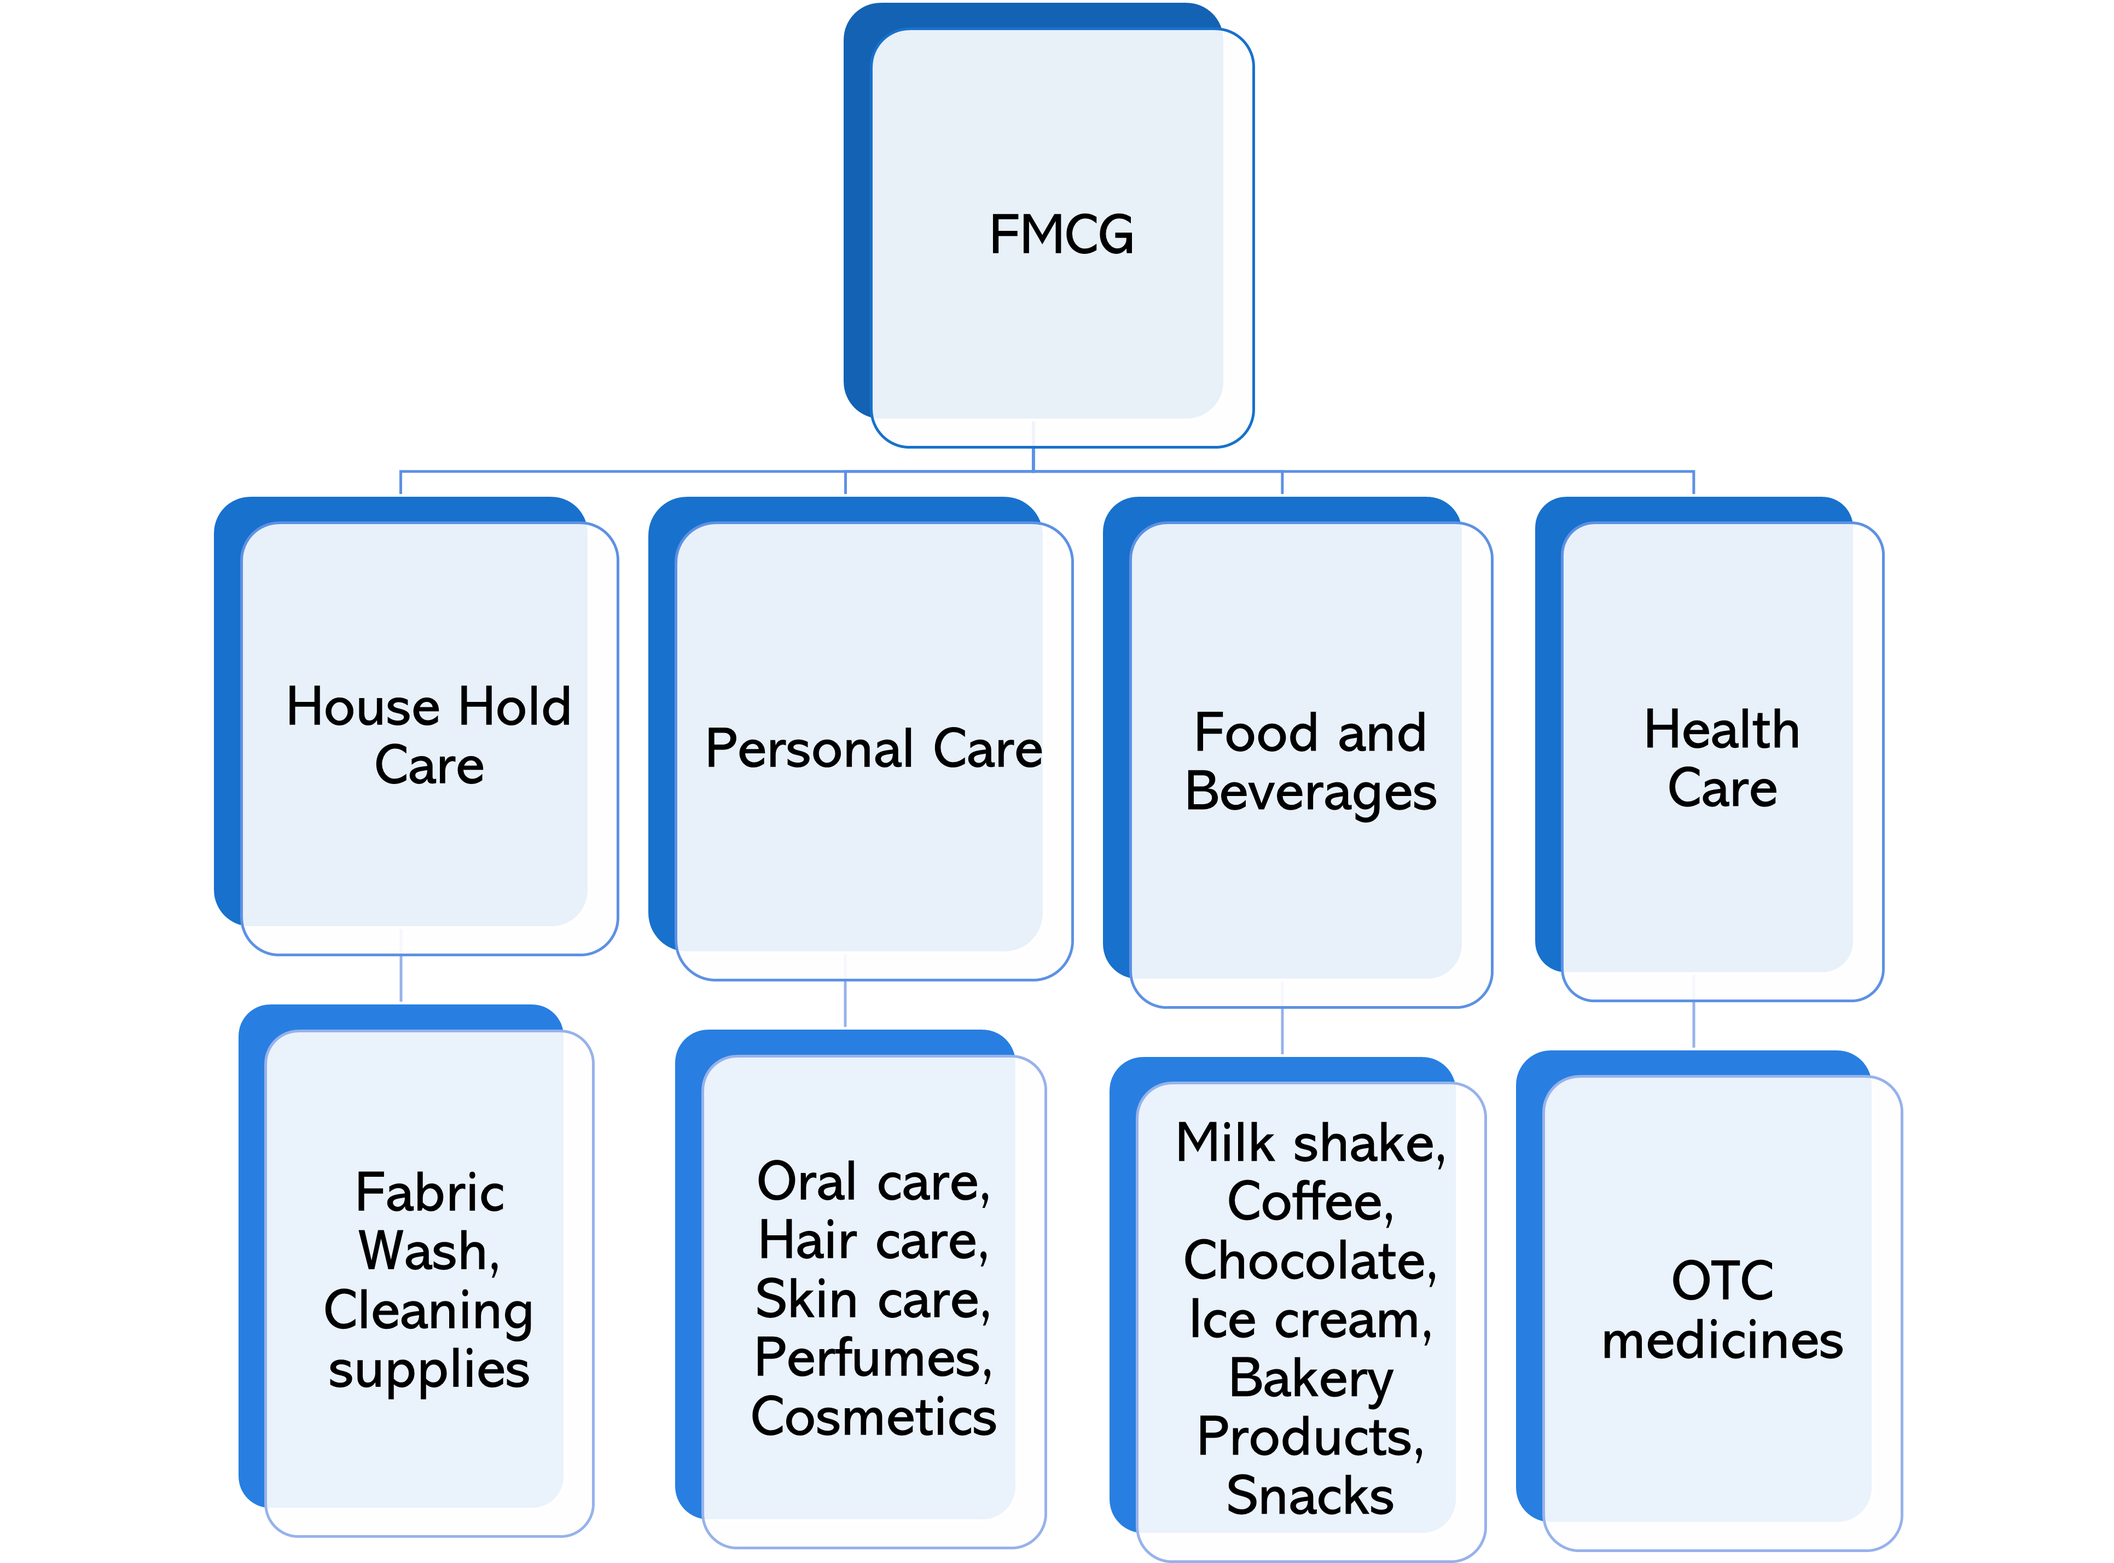
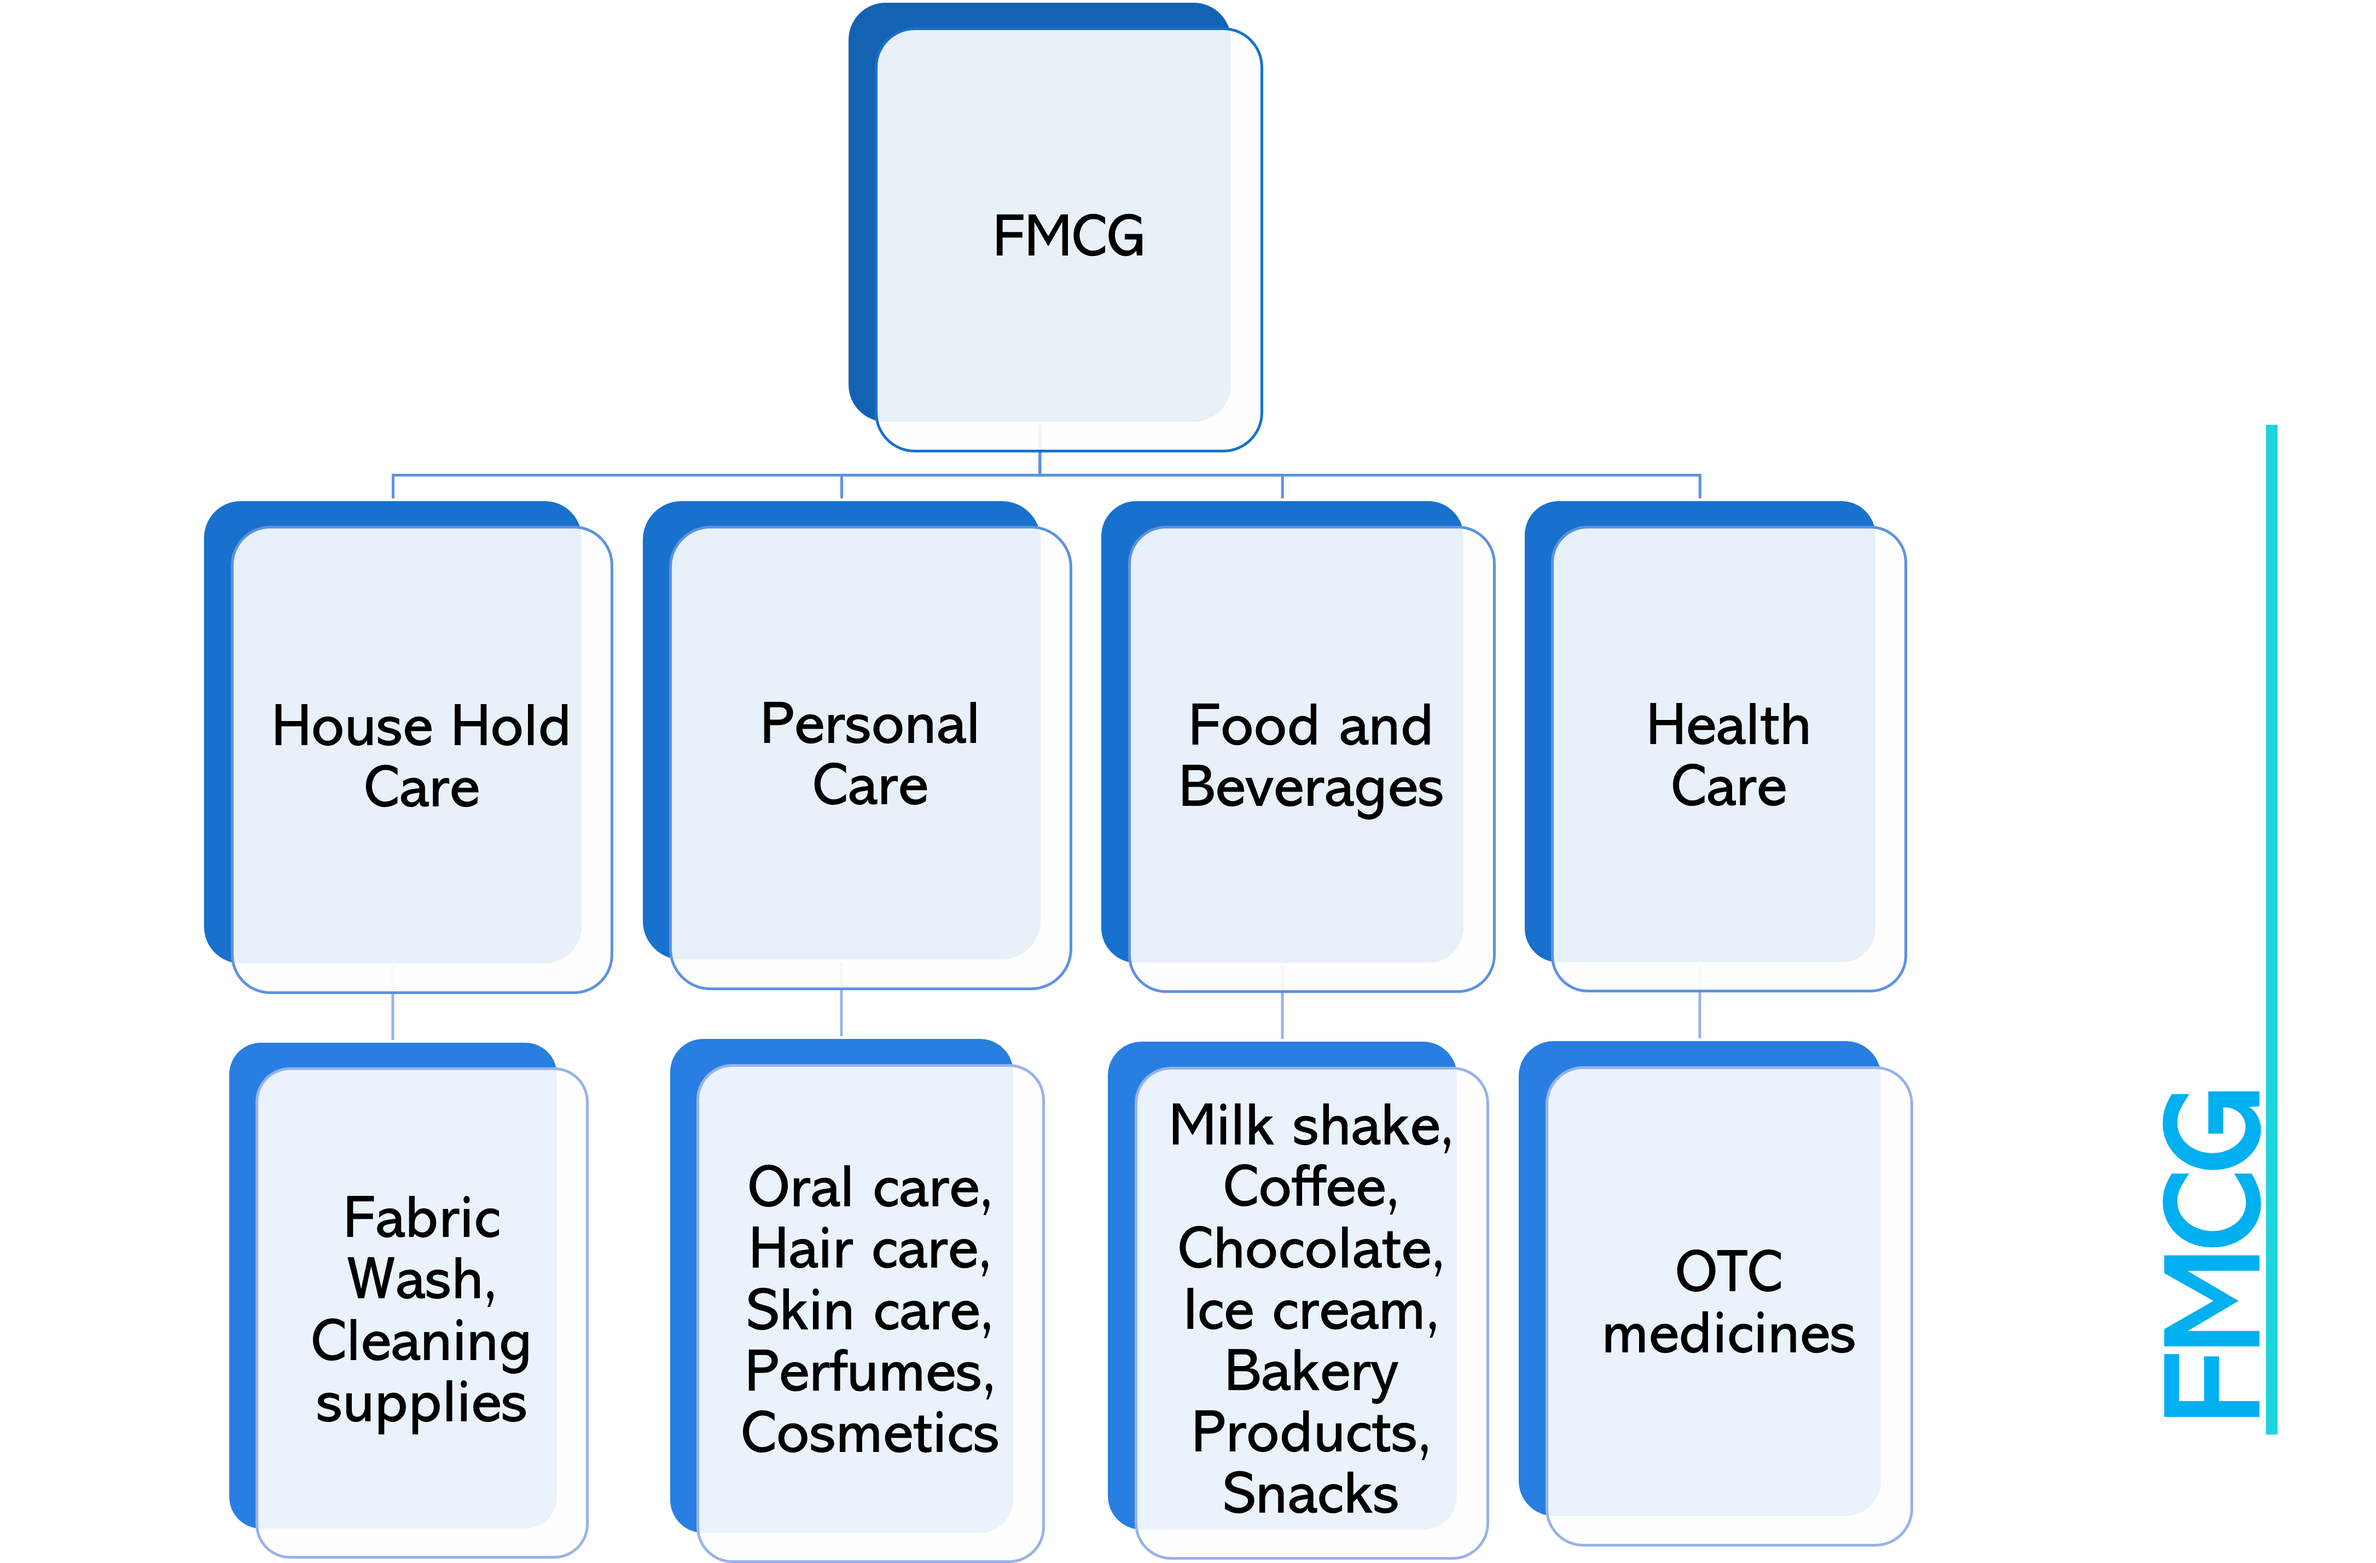
content rework(4)

Changed region(s): [[0.0621, 0.0, 0.9627, 1.0], [0.4969, 0.0, 0.5901, 0.0312]]

diff --git a/flutter/lib/data/module_data.dart b/flutter/lib/data/module_data.dart
@@ -201,16 +201,16 @@ final List module = [
       const SizedBox(),
       HeadImage(
           image: Image.asset(
-        'assets/images/module1/fmcg.png',
-        height: 300,
+        'assets/images/module1/pg1.png',
+        height: 500,
       )),
-      const Header(
-        text: 'FMCG\nCategory ',
-        //bgColor: Color.fromARGB(255, 151, 192, 232),
-        topPadding: 20,
-        sidePadding: 30,
-        bottomPadding: 20,
-      ),
+      // const Header(
+      //   text: 'FMCG\nCategory ',
+      //   //bgColor: Color.fromARGB(255, 151, 192, 232),
+      //   topPadding: 20,
+      //   sidePadding: 30,
+      //   bottomPadding: 20,
+      // ),
       const SizedBox()
     ],
     [
@@ -221,16 +221,17 @@ final List module = [
         textColor: Color.fromARGB(255, 151, 192, 232),
       ),
       const Header(text: 'FMCG?', bottomPadding: 35, sidePadding: 30),
-      const Heading(
+      const Header(
           text: 'Fast Moving Consumer Goods',
+          fontSize: 20,
           bgColor: Colors.yellow,
-          bottomPadding: 35),
-      BodyImage(
+          bottomPadding: 20),
+      HeadImage(
           image: Image.asset(
         'assets/images/module1/pg2.png',
-        height: 250,
-        width: double.infinity,
+        height: 300,
       )),
+      const SizedBox(),
     ],
     [
       const Body(text: 'Examples :', fontSize: 24),
@@ -267,7 +268,8 @@ final List module = [
           image: Image.asset(
         'assets/images/module1/pg4.png',
         height: 500,
-      ))
+      )),
+      const SizedBox(),
     ],
     [
       const Heading(
@@ -275,11 +277,11 @@ final List module = [
           fontSize: 25,
           topPadding: 20,
           bottomPadding: 10),
-      const Body(
+      const Header(
           text: 'Consumer buying decision varies based on product types  ',
           // bgColor: Color.fromARGB(255, 112, 217, 255),
           bgColor: Colors.yellow,
-          align: TextAlign.center,
+          fontSize: 14,
           bottomPadding: 20),
       BodyImage(
           image: Image.asset(
@@ -337,7 +339,10 @@ final List module = [
           text: 'Types of Distribution', bottomPadding: 30, topPadding: 20),
       BodyImage(image: Image.asset('assets/images/module1/pg8_1.png')),
       const Body(
-          text: 'Direct Distribution', align: TextAlign.center, topPadding: 5),
+          text: 'Direct Distribution',
+          align: TextAlign.center,
+          topPadding: 5,
+          weight: FontWeight.bold),
       BodyImage(
           image: Image.asset(
         'assets/images/module1/pg8_3.png',
@@ -346,7 +351,9 @@ final List module = [
       const Body(
           text: 'Indirect Distribution',
           align: TextAlign.center,
+          weight: FontWeight.bold,
           topPadding: 5),
+      const SizedBox(),
     ],
     [
       const Heading(
@@ -391,7 +398,8 @@ final List module = [
           image: Image.asset(
         'assets/images/module1/pg10.png',
         height: 400,
-      ))
+      )),
+      const SizedBox(),
     ],
     [
       BodyImage(
@@ -404,6 +412,7 @@ final List module = [
           align: TextAlign.center,
           text:
               'Nielsen is a global company that provides valuable insights into consumer behavior and marketing information by collecting data that measures what consumers watch and what they buy. This is how they classify outlets:'),
+      const SizedBox(),
     ],
     [
       const Heading(
@@ -476,6 +485,7 @@ final List module = [
           text:
               'Weighted distribution allows you to identify stores in a channel based on their weight in the sales of a category or a product.'),
       BodyImage(image: Image.asset('assets/images/module1/pg16.png')),
+      const SizedBox(),
     ],
     [
       const Header(
@@ -511,6 +521,7 @@ final List module = [
           topPadding: 0,
           text:
               'The product is present in many stores, but not in the ones that are most important to the business.'),
+      const SizedBox(),
     ],
     [
       const Heading(text: '2. Retailer Satisfaction ', topPadding: 20),
@@ -522,7 +533,8 @@ final List module = [
       const BulletPoint(
           text:
               'Hence, understanding the satisfaction levels of retailers that the distributors cater to is very important and this is done through channel satisfaction surveys'),
-      BodyImage(image: Image.asset('assets/images/module1/pg17.png'))
+      BodyImage(image: Image.asset('assets/images/module1/pg17.png')),
+      const SizedBox(),
     ],
     [
       const Heading(text: '3.Market Coverage ', topPadding: 20),
@@ -530,7 +542,8 @@ final List module = [
       const Body(
           text:
               'Determine the optimal level of market coverage. This involves decisions on whether to focus on specific regions, urban or rural areas, or target a broad national or international market.',
-          topPadding: 10)
+          topPadding: 10),
+      const SizedBox(),
     ],
     [
       const Heading(text: 'Ansoff Matrix', topPadding: 20),
@@ -562,7 +575,8 @@ final List module = [
           text: 'Diversification (entering new markets with new products)'),
       Body(
           text:
-              'It helps businesses assess and choose growth strategies based on their current product and market situations.')
+              'It helps businesses assess and choose growth strategies based on their current product and market situations.'),
+      const SizedBox(),
     ],
     [
       const Heading(
@@ -574,6 +588,7 @@ final List module = [
           text:
               'Design an efficient distribution network that minimizes transportation costs and ensures timely product delivery. Consider factors such as the number and location of warehouses, distribution centers, and transportation routes.',
           topPadding: 15),
+      const SizedBox(),
     ],
     [
       const Heading(text: '5. Route Planning', topPadding: 20),
@@ -583,7 +598,8 @@ final List module = [
       )),
       const Body(
           text:
-              'Plan distribution routes to optimize delivery schedules and minimize transportation costs. ')
+              'Plan distribution routes to optimize delivery schedules and minimize transportation costs. '),
+      const SizedBox(),
     ],
     [
       const Heading(text: '6. Merchandizing', topPadding: 20),
@@ -599,6 +615,7 @@ final List module = [
       Body(
           text:
               'POSM is an acronym for Point of Sale Marketing or Point of Sale Materials and is used by brands to convey their message or communicate information to the consumers at the point of sale. BTL marketing focuses and targets a specific segment of people- for instance, dropping leaflets in a particular area or putting up a banner at the bus stop.'),
+      const SizedBox(),
     ],
     [
       const Heading(text: 'POP', topPadding: 20),
@@ -613,6 +630,7 @@ final List module = [
       BulletPoint(
           text:
               'When brands place their products in the stores, in the aisles, on the shelves that customers use to choose what they want to buy- it is the Point of Purchase, whereas POS, ie. Point of Sales means the place where the transaction/ sale occurs- the cash counter or the checkout area at the retail store.'),
+      const SizedBox(),
     ],
     [
       const Heading(text: 'POS', topPadding: 20),
@@ -632,7 +650,8 @@ final List module = [
               'Well! These same candies are available in the chocolate and munchies section of the store (POP).'),
       BulletPoint(
           text:
-              'But putting a few pieces of the candies right before the exit is a part of the brand’s marketing strategy incorporated in a robust system at the store.')
+              'But putting a few pieces of the candies right before the exit is a part of the brand’s marketing strategy incorporated in a robust system at the store.'),
+      const SizedBox(),
     ],
     [
       Heading(text: 'Why is visibility important?', topPadding: 20),
@@ -640,6 +659,7 @@ final List module = [
           image: Image.asset(
         'assets/images/module1/pg25.png',
       )),
+      const SizedBox(),
     ],
     [
       Heading(text: 'Types of Visibility ', topPadding: 20),
@@ -661,7 +681,8 @@ final List module = [
       Body(
           text:
               'The primary goal of primary visibility is to attract immediate attention, increase brand awareness, and encourage quick purchasing decisions.',
-          topPadding: 0)
+          topPadding: 0),
+      const SizedBox(),
     ],
     [
       Body(
@@ -681,7 +702,8 @@ final List module = [
       Body(
           text:
               'Secondary visibility aims to capture the attention of shoppers who may not have been drawn to the primary locations. It provides an opportunity for products to be discovered during more extensive shopping trips',
-          topPadding: 0)
+          topPadding: 0),
+      const SizedBox(),
     ],
     [
       BodyImage(
@@ -699,7 +721,8 @@ final List module = [
       BodyImage(image: Image.asset('assets/images/module1/pg28_2.png')),
       Body(
           text:
-              'Shelf analytics is the process of using data and insights to analyze and optimize product placement on retail shelves. It involves leveraging technology and analytics to enhance visibility, improve product performance, and drive sales within a retail environment.')
+              'Shelf analytics is the process of using data and insights to analyze and optimize product placement on retail shelves. It involves leveraging technology and analytics to enhance visibility, improve product performance, and drive sales within a retail environment.'),
+      const SizedBox(),
     ],
     [
       Heading(
@@ -712,12 +735,14 @@ final List module = [
       BodyImage(image: Image.asset('assets/images/module1/pg29_4.png')),
       Body(text: 'Case 1:', weight: FontWeight.bold, fontSize: 18),
       BodyImage(image: Image.asset('assets/images/module1/pg29_1.png')),
+      const SizedBox(),
     ],
     [
       Body(text: 'Case 2:', weight: FontWeight.bold, fontSize: 18),
       BodyImage(image: Image.asset('assets/images/module1/pg29_2.png')),
       Body(text: 'Case 3:', weight: FontWeight.bold, fontSize: 18),
       BodyImage(image: Image.asset('assets/images/module1/pg29_3.png')),
+      const SizedBox(),
     ],
     [
       Heading(text: 'Visibility & Shelf Space', topPadding: 20),
@@ -750,6 +775,7 @@ final List module = [
       Body(
           text:
               'Other factors: Average height of an Indian -> 170 cm (Men), 155 cm (Women):'),
+      const SizedBox(),
     ],
   ],
 ];
